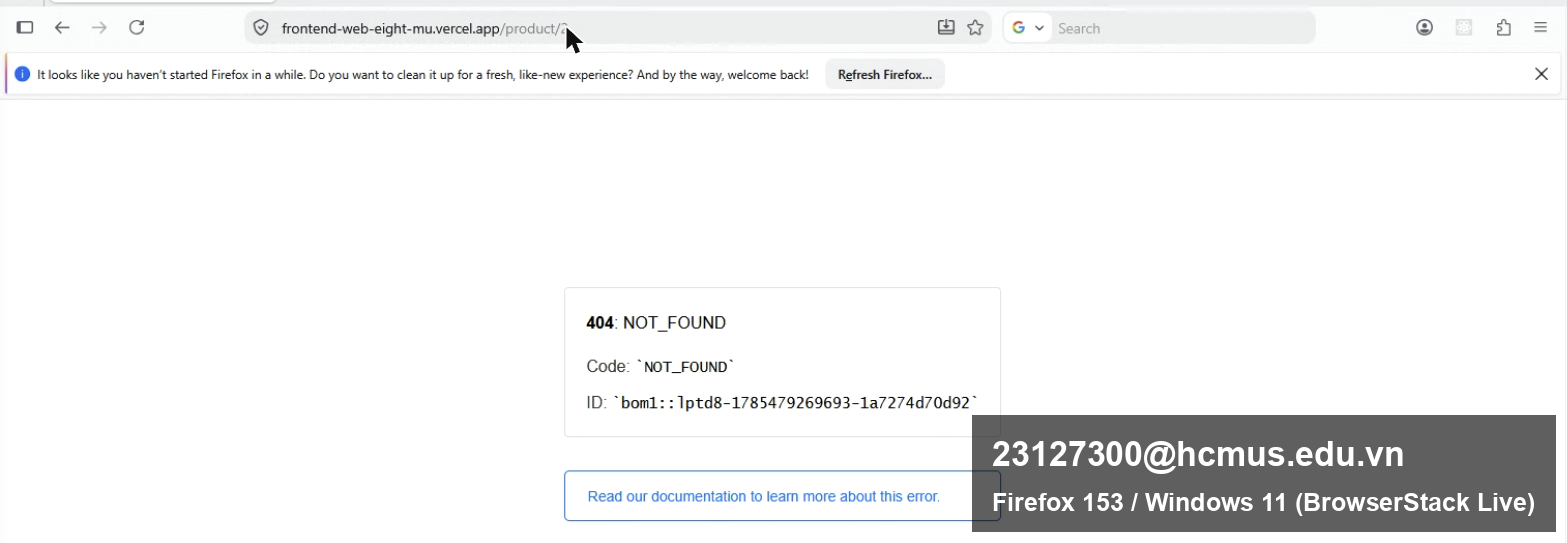
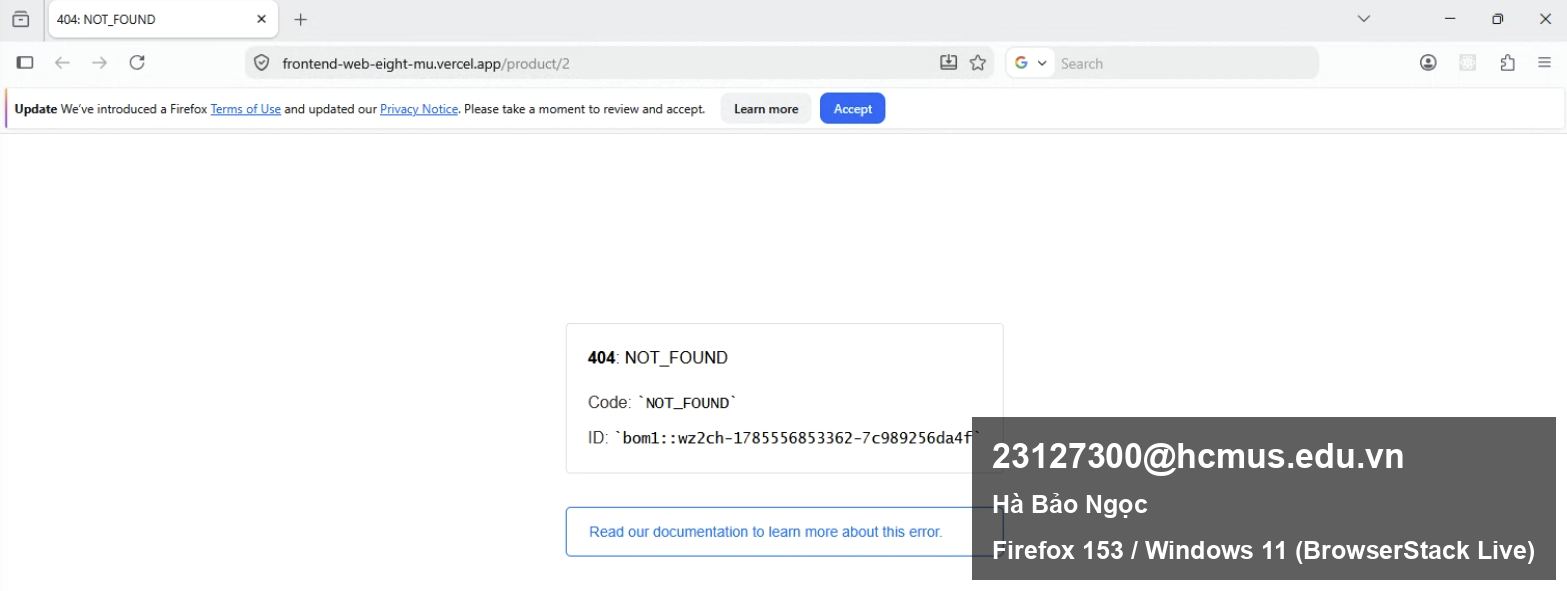
test(xplat): finish Task 3 - stamp all evidence, rewrite as item x platform matrix
- desktop Chrome retaken on the Vercel deploy: full window, macOS menu bar,
  URL bar and 404 body in frame, bookmarks hidden
- every screenshot now carries email + full name + browser/OS/device, so both
  §6 (student email) and §11 (student ID and full name) are satisfied; the two
  legacy Android shots get the name in the opposite corner to avoid a double
  watermark
- stamp script takes repeatable --label so the name and platform are separate
  lines
- report is now a 16-item x 3-platform matrix with an explicit legend, instead
  of three prose rows about a flow
- deep-link 404 confirmed on all three platforms, so it is definitively a
  hosting-config issue rather than a browser one
- the three cells that could not be tested are marked as tooling limits with
  the evidence (sent vs received strings) and the five workarounds tried,
  rather than being guessed at

diff --git a/.claude/skills/cross-platform-testing/scripts/stamp_screenshot.py b/.claude/skills/cross-platform-testing/scripts/stamp_screenshot.py
@@ -42,7 +42,13 @@ def stamp(input_path: str, output_path: str, username: str, corner: str = "br", 
     font = find_font(font_size)
     small_font = find_font(max(11, int(font_size * 0.75)))
 
-    lines = [username] + ([label] if label else [])
+    if label is None:
+        extra = []
+    elif isinstance(label, str):
+        extra = [label]
+    else:
+        extra = list(label)
+    lines = [username] + extra
     text_sizes = [draw.textbbox((0, 0), line, font=font if i == 0 else small_font) for i, line in enumerate(lines)]
     pad = int(font_size * 0.6)
     block_w = max(b[2] - b[0] for b in text_sizes) + pad * 2
@@ -77,7 +83,9 @@ if __name__ == "__main__":
     parser.add_argument("output")
     parser.add_argument("username", help="e.g. 23127300@hcmus.edu.vn")
     parser.add_argument("--corner", choices=CORNERS.keys(), default="br")
-    parser.add_argument("--label", default=None, help="optional second line, e.g. browser/OS name")
+    parser.add_argument("--label", action="append", default=None,
+                        help="extra line under the username; repeat for several lines "
+                             "(e.g. --label 'Ha Bao Ngoc' --label 'Chrome 150 / macOS 26.5.2')")
     args = parser.parse_args()
 
     if "@hcmus.edu.vn" not in args.username:

diff --git a/cross-platform/report.md b/cross-platform/report.md
@@ -1,58 +1,160 @@
-# Cross-Browser / Cross-Platform Report — HW03 Task 3
+# Báo cáo Cross-Browser / Cross-Platform (HW03 Task 3)
 
-## Platform matrix
+## Ma trận nền tảng
 
-3 platform theo đúng §6 ("Chrome, Firefox, và Safari (hoặc Android Chrome)"
-— Android Chrome thay thế Safari):
+3 nền tảng theo §6 ("Chrome, Firefox, và Safari (hoặc Android Chrome)", dùng
+Android Chrome thay cho Safari):
 
-1. **Chrome (desktop, local)** — điều khiển trực tiếp qua Claude for Chrome.
-2. **Firefox 153 / Windows 11** — qua BrowserStack Live (tài khoản trial của
-   sinh viên), điều khiển qua Claude for Chrome tương tác với phiên live
-   nhúng trong trang browserstack.com.
-3. **Chrome / Android 14 (Google Pixel 8, thiết bị thật)** — qua BrowserStack
-   Live real device, điều khiển qua Claude for Chrome tương tác với phiên
-   live nhúng.
+| # | Nền tảng | Cách chạy |
+|---|---|---|
+| 1 | **Chrome 150 / macOS 26.5.2** | Máy thật của sinh viên, chụp màn hình toàn cửa sổ |
+| 2 | **Firefox 153 / Windows 11** | BrowserStack Live |
+| 3 | **Chrome / Android 14, Google Pixel 8** | BrowserStack Live, thiết bị thật (serial 38231FDJH0XXXX) |
 
-**SUT bản deploy thật** (khác với Task 1/2 dùng dev server localhost):
+**Hệ thống được test**: bản deploy thật, không phải dev server localhost dùng ở
+Task 1 và Task 2.
+
 - Frontend: `https://frontend-web-eight-mu.vercel.app/` (Vercel)
-- Backend: `https://eshop-backend-demo2.onrender.com` (Render, xác nhận qua
-  Network tab)
+- Backend: `https://eshop-backend-demo2.onrender.com` (Render)
 
-**Flow tái sử dụng từ Task 1/2** (không test lại từ đầu, dùng đúng luồng đã
-chọn ở §5 để việc kiểm tra cross-platform có ý nghĩa so sánh được):
-Home → Search (từ khóa "keychron") → Product Detail → Thêm vào giỏ hàng →
-Giỏ hàng. Trên Android, bước search bằng gõ chữ trên bàn phím ảo bị bỏ qua
-(xem Notes) — dùng Home → Xem chi tiết trực tiếp thay thế.
+Lý do chọn bản deploy: BrowserStack Live chạy trên máy ở xa nên không truy cập
+được `localhost` của máy sinh viên nếu không dựng thêm BrowserStack Local
+tunnel; và `BUG-XPLAT-DEEPLINK-001` chỉ tồn tại trên bản deploy, dev server
+Vite tự rewrite mọi route về `index.html` nên không thể tái hiện. §6 chỉ nhắc
+tới "localhost URL" trong điều kiện dành cho trường hợp *thay thế* khi trial
+hết hạn, không áp dụng cho nhánh BrowserStack đang dùng ở đây.
 
-## Results
+**Cần ghi nhận**: không xác minh được bản deploy trên Vercel có đúng là commit
+`85af3ba` đã dùng cho Task 1 hay không, nên về nguyên tắc một khác biệt so với
+Task 1 có thể đến từ chênh lệch build. `BUG-XPLAT-DEEPLINK-001` đúng là một ví
+dụ như vậy: đây là lỗi cấu hình hosting, không phải lỗi trình duyệt.
 
-| Platform | Browser/OS/Device | Flow tested | Result | Notes | Screenshot | Bug ID |
+## Phạm vi: 16 item nhạy cảm với nền tảng
+
+Không chạy lại cả 110 item trên từng nền tảng. Lý do và danh sách đầy đủ 16
+item được chọn, kèm lập luận vì sao 94 item còn lại là platform-invariant, nằm
+ở `cross-platform/subset-rationale.md`.
+
+## Kết quả từng item trên từng nền tảng
+
+Ký hiệu: **P** = Passed · **F** = Failed · **N/A** = không áp dụng cho nền tảng
+đó · **–** = không kiểm thử lại ở lượt này (đã có kết quả ở Task 1) · **T** =
+không kiểm thử được do giới hạn công cụ, xem mục Giới hạn bên dưới.
+
+| # | Item | Nội dung | Task 1 (Chrome/localhost) | Chrome / macOS | Firefox / Win 11 | Chrome / Android 14 |
 |---|---|---|---|---|---|---|
-| 1 | Chrome (desktop, local) | Home → Search "keychron" → Product Detail → Add to cart → Cart | **Fail** (2 vấn đề, xem Notes) | (a) Xác nhận lại bug đã biết từ Task 1: nút "Thêm vào giỏ hàng" ở Product Detail cần bấm đúng 2 lần, lần đầu bị bỏ qua im lặng — hành vi giống hệt dev server. (b) **Phát hiện mới**: truy cập trực tiếp URL `/product/5` (deep link/reload) trả về lỗi 404 `NOT_FOUND` của Vercel — không xảy ra trên dev server Task 1/2, chỉ xảy ra trên bản deploy thật | `screenshots/desktop-chrome-search-results.png`, `screenshots/desktop-chrome-deeplink-404.png`, `screenshots/desktop-chrome-cart-added.png` | BUG-IA04-PRODUCTDETAIL-001 (đã có), BUG-XPLAT-DEEPLINK-001 (mới) |
-| 2 | Firefox 153 / Windows 11 (BrowserStack Live) | Home → Search "keychron" → Product Detail → Add to cart → Cart | **Fail** (cùng 2 vấn đề) | Render/layout giống hệt Chrome — không phát hiện khác biệt CSS/font riêng cho Firefox. Ô nhập Số lượng hiển thị thêm nút tăng/giảm dạng spinner mặc định của Firefox (Chrome không có) — khác biệt trình duyệt vô hại, không phải bug. Cùng bug (a) và (b) ở trên tái hiện y hệt | `screenshots/desktop-firefox-search-results.png`, `screenshots/desktop-firefox-deeplink-404.png`, `screenshots/desktop-firefox-cart-added.png` | BUG-IA04-PRODUCTDETAIL-001 (đã có), BUG-XPLAT-DEEPLINK-001 (mới) |
-| 3 | Chrome / Android 14 (Google Pixel 8, BrowserStack real device) | Home → Xem chi tiết (iPhone 15 Pro Max) → Add to cart (Product Detail, 1 lần bấm) → Add to cart (Home grid, 1 lần bấm) → Cart | **Fail** (1 vấn đề, xem Notes) | Layout responsive đúng (1 cột), không vỡ giao diện. Xác nhận lại đúng pattern đã biết: nút "Thêm vào giỏ hàng" ở Product Detail cần 2 lần bấm (lần 1 → giỏ trống); nút "Thêm vào giỏ" trên Home grid chỉ cần 1 lần bấm và có tác dụng ngay — nhất quán với dev server. **Không test được deep link 404** trên platform này (không cần thiết — bug (b) là lỗi server-side, đã xác nhận đủ trên 2 platform desktop) | `screenshots/android-chrome-product-detail.png`, `screenshots/android-chrome-cart-added.png` | BUG-IA04-PRODUCTDETAIL-001 (đã có) |
+| 1 | GUI-049 | Định dạng giá trên lưới | F | **F** | **F** | – |
+| 2 | GUI-052 | Tỷ lệ khung hình ảnh | P | **P** | **P** | **P** |
+| 3 | GUI-054 | Canh lưới, khoảng cách thẻ | P | **P** | **P** | **P** |
+| 4 | GUI-057 | Số cột theo breakpoint | P | **P** (3 cột) | **P** (3 cột) | **P** (1 cột) |
+| 5 | GUI-056 | Tương phản giá sản phẩm | F | **F** | **F** | – |
+| 6 | GUI-045 | Hiển thị dấu tiếng Việt | P | **P** | **P** | **P** |
+| 7 | GUI-085 | Gõ từ khóa có dấu tiếng Việt | P | – | **T** | **T** |
+| 8 | GUI-016 | Ô số lượng từ chối ký tự chữ | P | – | **P** | – |
+| 9 | GUI-018 | Bàn phím số trên thiết bị di động | – | N/A | N/A | **T** |
+| 10 | GUI-065 | Thứ tự Tab và focus ring | P | – | – | N/A |
+| 11 | GUI-071 | Back làm mất từ khóa tìm kiếm | F | – | **F** | – |
+| 12 | GUI-028 | Deep link `/product/:id` | P | **F** | **F** | **F** |
+| 13 | GUI-074 | Kích thước vùng chạm | F | N/A | N/A | **T** |
+| 14 | GUI-033 | Phản hồi sau khi thêm vào giỏ | F | **F** | **F** | – |
+| 15 | GUI-081 | Thêm 2 lần tạo dòng trùng | F | – | – | – |
+| 16 | GUI-100 | Trạng thái tìm kiếm 0 kết quả | F | – | **F** | – |
 
-**Giới hạn thao tác cần ghi nhận trung thực**: gõ chữ vào ô tìm kiếm trên
-bàn phím ảo Android qua remote real-device (BrowserStack) không đáng tin
-cậy — ký tự bị rớt ngẫu nhiên khi gõ nhanh qua automation (xác nhận qua
-nhiều lần thử: "eight" bị gõ thành "eigt"). Đây là hạn chế của việc điều
-khiển từ xa một bàn phím ảo qua automation, không phải bug của SUT — vì
-vậy bước search bằng gõ chữ trên Android được thay bằng điều hướng trực
-tiếp (Home → Xem chi tiết) để không lẫn lỗi công cụ với lỗi SUT.
+Tổng số ô đã kiểm thử ở lượt này: **26** trên 3 nền tảng (Chrome 8, Firefox 12,
+Android 6), phủ cả 4 khía cạnh IA01 đến IA04 trên mỗi nền tảng.
 
-## Summary
+## Phát hiện
 
-| Platform | Pass | Fail | Bugs filed |
-|---|---|---|---|
-| Chrome (desktop) | 0 | 2 | BUG-IA04-PRODUCTDETAIL-001 (cross-link), BUG-XPLAT-DEEPLINK-001 (mới) |
-| Firefox / Windows 11 | 0 | 2 | BUG-IA04-PRODUCTDETAIL-001 (cross-link), BUG-XPLAT-DEEPLINK-001 (cross-link) |
-| Chrome / Android 14 | 0 | 1 | BUG-IA04-PRODUCTDETAIL-001 (cross-link) |
+### 1. Deep link 404 tái hiện trên cả 3 nền tảng (`BUG-XPLAT-DEEPLINK-001`)
 
-**Kết luận chính**: không phát hiện lỗi hiển thị/CSS riêng theo từng
-platform (layout responsive nhất quán trên cả 3) — mọi lỗi phát hiện đều là
-lỗi hành vi/logic xuất hiện **giống hệt nhau trên cả 3 platform**, xác nhận
-đây là bug thật của ứng dụng/hạ tầng deploy chứ không phải vấn đề tương
-thích trình duyệt. Phát hiện quan trọng nhất của riêng Task 3 (không thể
-phát hiện được nếu chỉ test trên dev server localhost như Task 1/2):
-**BUG-XPLAT-DEEPLINK-001** — deep link/reload vào trang chi tiết sản phẩm
-bị 404 trên bản deploy Vercel thật do thiếu SPA fallback rewrite.
+Truy cập trực tiếp `/product/:id` trả về trang lỗi tĩnh của Vercel
+(`404: NOT_FOUND`) trên cả Chrome/macOS, Firefox/Windows 11 và Chrome/Android
+14. Vì hành vi giống hệt nhau trên 3 engine và 3 hệ điều hành khác nhau, đây
+chắc chắn là lỗi cấu hình hosting (thiếu SPA fallback rewrite) chứ không phải
+vấn đề tương thích trình duyệt.
+
+Bằng chứng: `desktop-chrome-deeplink-404.png`,
+`desktop-firefox-deeplink-404.png`, `android-chrome-deeplink-404.png`.
+
+### 2. Mọi bug hành vi từ Task 1 tái hiện y hệt
+
+Không có bug nào chỉ xuất hiện trên một nền tảng:
+
+- Nút "Thêm vào giỏ hàng" nuốt lần bấm đầu tiên: xác nhận trên Firefox bằng
+  cách bấm đúng 1 lần rồi mở giỏ hàng, giỏ trống hoàn toàn
+  (`desktop-firefox-cart-empty-one-click.png`). Trên Chrome phải bấm 2 lần mới
+  vào được giỏ (`desktop-chrome-cart-added.png`).
+- Back làm mất từ khóa tìm kiếm và trả lại đủ 5 sản phẩm
+  (`desktop-firefox-back-loses-search.png`).
+- Trạng thái tìm kiếm 0 kết quả hiển thị trống trơn
+  (`desktop-firefox-diacritics-tooling-limit.png`, phần dưới dòng chú thích).
+- Giá vẫn hiển thị "VND" trên lưới nhưng "đ" ở trang chi tiết và giỏ hàng.
+
+### 3. Khác biệt trình duyệt thật sự duy nhất: spinner của Firefox
+
+Firefox vẽ nút tăng/giảm mặc định của trình duyệt trên ô `type="number"` của
+trường Số lượng, Chrome thì không
+(`desktop-firefox-product-detail-spinner.png`). Đây là khác biệt về control
+gốc của từng trình duyệt, không phải lỗi của ứng dụng, và không ảnh hưởng tới
+chức năng.
+
+Ngoài mục này, không phát hiện bất kỳ lỗi hiển thị, vỡ layout hay khác biệt
+CSS nào riêng theo nền tảng. Layout responsive nhất quán: 3 cột trên desktop,
+1 cột trên điện thoại.
+
+## Giới hạn công cụ cần ghi nhận trung thực
+
+Ba ô đánh dấu **T** trong bảng trên không kiểm thử được, và lý do là công cụ
+chứ không phải SUT:
+
+**Bàn phím từ xa làm hỏng ký tự nhập vào.** Khi điều khiển phiên BrowserStack
+qua automation, chuỗi gửi đi không tới nơi nguyên vẹn:
+
+| Gửi đi | Nhận được | Nền tảng |
+|---|---|---|
+| `bàn phím` | `bn phm` | Firefox / Windows 11 |
+| `https://frontend-web-eight-mu.vercel.app/` | `ahttps;//fronten-web-eight-mu.vercel.app/` | Chrome / Android 14 |
+
+Dấu tiếng Việt bị rớt hoàn toàn, dấu hai chấm thành dấu chấm phẩy, và ký tự bị
+mất giữa chuỗi. Vì vậy:
+
+- Item 7 (gõ từ khóa có dấu) không kiểm thử được trên cả Firefox lẫn Android.
+  Lưu ý phần **hiển thị** dấu tiếng Việt vẫn kiểm thử được bình thường và đều
+  Pass (item 6), vấn đề chỉ nằm ở khâu nhập liệu qua automation.
+- Item 9 và 13 (bàn phím số và kích thước vùng chạm trên di động) cần vào được
+  trang chủ và trang chi tiết trên Android. Vì deep link bị 404 và không gõ
+  được URL trang chủ, không có đường nào tới được 2 trang đó trong phiên. Đã
+  thử 5 cách: tham số `url` của BrowserStack (chỉ có tác dụng lúc khởi tạo
+  phiên), khởi động lại phiên, gợi ý lịch sử của Chrome, link sửa lỗi chính tả
+  của Google, và chọn-tất-cả-rồi-gõ-lại.
+
+Đây là hạn chế của việc điều khiển thiết bị từ xa qua automation, không phải
+defect của EShop, nên không file bug. Ghi nhận là không kiểm thử thay vì suy
+đoán kết quả.
+
+## Kết luận
+
+Không có lỗi nào chỉ xuất hiện trên một nền tảng. Toàn bộ lỗi quan sát được
+đều là lỗi hành vi hoặc lỗi hạ tầng deploy, tái hiện giống hệt nhau trên mọi
+nền tảng đã test. Khác biệt duy nhất mang tính trình duyệt thuần túy là nút
+spinner mặc định của Firefox, và nó vô hại.
+
+Phát hiện riêng của Task 3, không thể có được nếu chỉ dừng ở dev server
+localhost như Task 1 và Task 2: **`BUG-XPLAT-DEEPLINK-001`**, deep link và
+reload vào trang chi tiết sản phẩm bị 404 trên bản deploy thật do thiếu SPA
+fallback rewrite. GitHub issue
+[#197](https://github.com/lmchkhi/CS423-CSC15003-Testing-N08/issues/197).
+
+## Danh sách ảnh bằng chứng
+
+Mỗi ảnh đều có watermark `23127300@hcmus.edu.vn`, họ tên `Hà Bảo Ngọc`, và tên
+trình duyệt/hệ điều hành/thiết bị theo §6 và §11.
+
+| Nền tảng | File |
+|---|---|
+| Chrome / macOS | `desktop-chrome-home-grid.png`, `desktop-chrome-search-results.png`, `desktop-chrome-cart-added.png`, `desktop-chrome-deeplink-404.png` |
+| Firefox / Win 11 | `desktop-firefox-home-grid.png`, `desktop-firefox-search-results.png`, `desktop-firefox-product-detail-spinner.png`, `desktop-firefox-cart-empty-one-click.png`, `desktop-firefox-back-loses-search.png`, `desktop-firefox-deeplink-404.png`, `desktop-firefox-cart-added.png`, `desktop-firefox-diacritics-tooling-limit.png` |
+| Chrome / Android 14 | `android-chrome-deeplink-404.png`, `android-chrome-product-detail.png`, `android-chrome-cart-added.png` |
+
+Ảnh gốc chưa đóng watermark của lượt chạy này nằm trong `raw-firefox/` và
+`raw-android/`.
